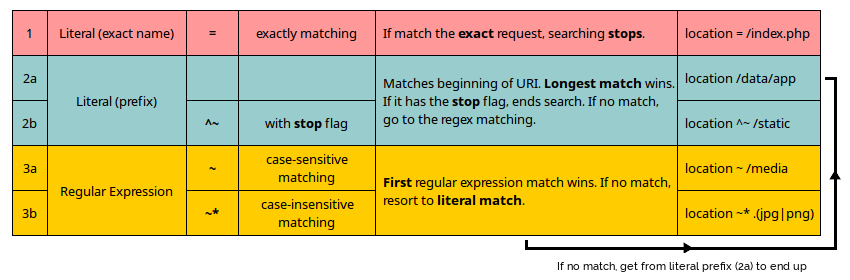
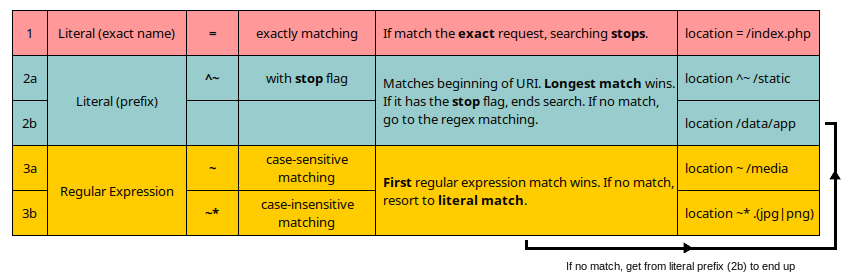
minor fixes, updates, and improvements - signed-off-by: trimstray <trimstray@gmail.com>

diff --git a/README.md b/README.md
@@ -91,6 +91,7 @@
   * [Processes](#processes)
   * [Configuration syntax](#configuration-syntax)
     * [Comments](#comments)
+    * [End of lines](#end-of-lines)
     * [Variables, Strings, and Quotes](#variables-strings-and-quotes)
     * [Directives, Blocks, and Contexts](#directives-blocks-and-contexts)
     * [External files](#external-files)
@@ -402,7 +403,7 @@ There are a lot of things you can do to improve NGINX server and this guide will
 
 Throughout this handbook you will explore the many features and capabilities of the NGINX. You'll find out, for example, how to testing the performance or how to resolve debugging problems. You will learn configuration guidelines, security design patterns, ways to handle common issues and how to stay out of them.
 
-In this handbook I added set of guidelines and examples has also been produced to help you administer of the NGINX. They give us insight into NGINX internals also.
+In this handbook I added set of guidelines and examples has also been produced to help you administer of the NGINX. They give us insight into NGINX internals also. Explained here are few best tips to avoid pitfails and mistakes.
 
 If you do not have the time to read hundreds of articles (just like me) this multipurpose handbook may be useful. I created it in the hope that it will be useful especially for System Administrators and Experts of web-based applications. I think it can also be a good complement to official documentation.
 
@@ -512,6 +513,7 @@ Existing chapters:
     - [x] _Manually log rotation_
   - _Configuration syntax_
     - [x] _Comments_
+    - [x] _End of lines_
     - [x] _Variables, Strings, and Quotes_
     - [x] _Directives, Blocks, and Contexts_
     - [x] _External files_
@@ -1318,13 +1320,15 @@ Configuration options are called directives. We have four types of directives:
   try_files $uri $uri/ /test/index.html;
   ```
 
-  > If you want to review all directives see [alphabetical index of directives](https://nginx.org/en/docs/dirindex.html).
-
 Directives are organised into groups known as **blocks** or **contexts**. Generally, context is a block directive that can have other directives inside braces. It appears to be organised in a tree-like structure, defined by sets of brackets - `{` and `}`.
 
-As a general rule, if a directive is valid in multiple nested scopes, a declaration in a broader context will be passed on to any child contexts as default values.
+As a general rule, if a directive is valid in multiple nested scopes, a declaration in a broader context will be passed on to any child contexts as default values. The children contexts can override these values at will.
 
   > Directives placed in the configuration file outside of any contexts are considered to be in the global/main context.
+
+Directives can only be used in the contexts that they were designed for. Nginx will error out on reading a configuration file with directives that are declared in the wrong context.
+
+  > If you want to review all directives see [alphabetical index of directives](https://nginx.org/en/docs/dirindex.html).
 
 Contexts can be layered within one another (a level of inheritance). Their structure looks like this:
 
@@ -1349,6 +1353,8 @@ Global/Main Context
         |
         +-----» Mail Context
 ```
+
+NGINX lookup starts from the http block, then through one or more server blocks, followed by the location block(s).
 
 ##### External files
 
@@ -2167,7 +2173,7 @@ wildcard at the end of the string (the hash table with wildcard names ending wit
 
     > The first `server_name` with a regular expression that matches the `Host` header will be used to serve the request.
 
-6. If all the `Host` headers doesn't match, then direct to the `listen` directive marked as `default_server`
+6. If all the `Host` headers doesn't match, then direct to the `listen` directive marked as `default_server` (makes the server block answer all the requests that doesn’t match any server block)
 
 7. If all the `Host` headers doesn't match and there is no `default_server`,
 direct to the first server with a `listen` directive that satisfies first step
@@ -2180,13 +2186,13 @@ direct to the first server with a `listen` directive that satisfies first step
 
   > For each request, NGINX goes through a process to choose the best location block that will be used to serve that request.
 
-The location syntax looks like:
+The location block enables you to handle several types of URIs/routes, within a server block. Syntax looks like:
 
 ```bash
 location optional_modifier location_match { ... }
 ```
 
-`location_match` in the above defines what NGINX should check the request URI against. The `optional_modifier` below will cause the associated location block to be interpreted as follows:
+`location_match` in the above defines what NGINX should check the request URI against. The `optional_modifier` below will cause the associated location block to be interpreted as follows (the order doesn't matter at this moment):
 
 - `(none)`: if no modifiers are present, the location is interpreted as a prefix match. To determine a match, the location will now be matched against the beginning of the URI
 
@@ -2247,19 +2253,17 @@ To help you understand how does location match works:
 
 The process of choosing NGINX location block is as follows (a detailed explanation):
 
-1. Prefix-based NGINX location matches (no regular expression). Each location will be checked against the request URI
+1. NGINX searches for an exact match. If a `=` modifier exactly matches the request URI, this specific location block is chosen right away
 
-2. NGINX searches for an exact match. If a `=` modifier exactly matches the request URI, this specific location block is chosen right away
-
-3. If no exact (meaning no `=` modifier) location block is found, NGINX will continue with non-exact prefixes. It starts with the longest matching prefix location for this URI, with the following approach:
+2. Prefix-based NGINX location matches (no regular expression). Each location will be checked against the request URI. If no exact (meaning no `=` modifier) location block is found, NGINX will continue with non-exact prefixes. It starts with the longest matching prefix location for this URI, with the following approach:
 
     - In case the longest matching prefix location has the `^~` modifier, NGINX will stop its search right away and choose this location.
 
     - Assuming the longest matching prefix location doesn’t use the `^~` modifier, the match is temporarily stored and the process continues.
 
-4. As soon as the longest matching prefix location is chosen and stored, NGINX continues to evaluate the case-sensitive and insensitive regular expression locations. The first regular expression location that fits the URI is selected right away to process the request
+3. As soon as the longest matching prefix location is chosen and stored, NGINX continues to evaluate the case-sensitive and insensitive regular expression locations. The first regular expression location that fits the URI is selected right away to process the request
 
-5. If no regular expression locations are found that match the request URI, the previously stored prefix location is selected to serve the request
+4. If no regular expression locations are found that match the request URI, the previously stored prefix location is selected to serve the request
 
 In order to better understand how this process work please see this short cheatsheet that will allow you to design your location blocks in a predictable way:
 
@@ -2413,7 +2417,7 @@ location / {
     - internal engine **starts to look** for another location match based on the result of the rewrite result
     - no more parsing of rewrite conditions, even on the next location match
 
-    _Inside a location block, with last, NGINX stops processing anymore rewrite conditions and then **starts to look** for a new matching of location block! NGINX also ignores any rewrites in the new location block!_
+    _Inside a location block, with last, NGINX stops processing anymore rewrite conditions and then **starts to look** for a new matching of location block. NGINX also ignores any rewrites in the new location block._
 
   - if you use `last` flag outside `location` block:
 
@@ -2526,6 +2530,7 @@ I use `return` directive to:
 
     # NGINX will not allow a 200 with no response body (200's need to be with a resource in the response)
     return 204 "it's all okay";
+
     # Because default Content-Type is application/octet-stream, browser will offer to "save the file".
     # If you want to see reply in browser you should add properly Content-Type:
     # add_header Content-Type text/plain;
